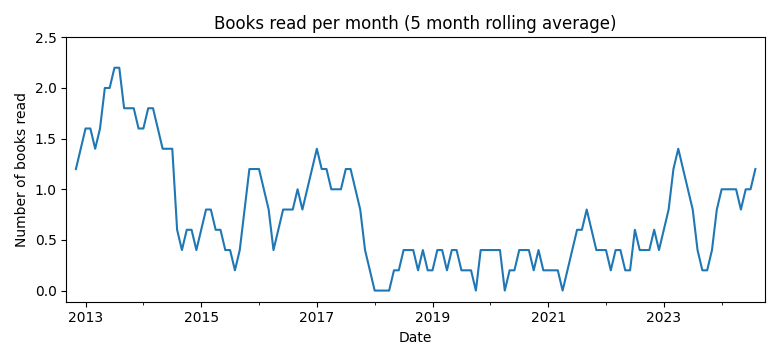
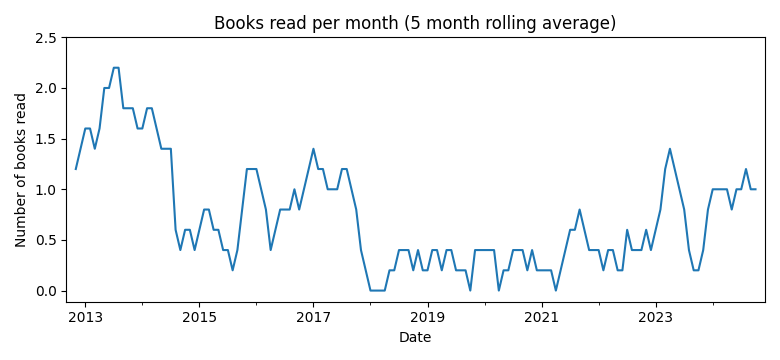
fofde

diff --git a/README.md b/README.md
@@ -6,13 +6,16 @@ The most significant events impacting the number of books I read are
 * The birth of my daughers in 2018/01 and 2019/08
 
 ### Statistics
-Total number of books read: 108  
-Books per month: 0.74 (2012/9 to 2024/10)
+Total number of books read: 109  
+Books per month: 0.74 (2012/9 to 2024/12)
 
 ![Books recorded by year](book_recorded.png)
 ![Books read per month](book_read.png)
 
 ### List of books
+*Fundamentals of Data Engineering*, Joe Reis,  Matt Housley  
+Finished: 2024.12.25
+
 *Caliban's war*, James S. A. Corey  
 Finished: 2024.10.03
 
